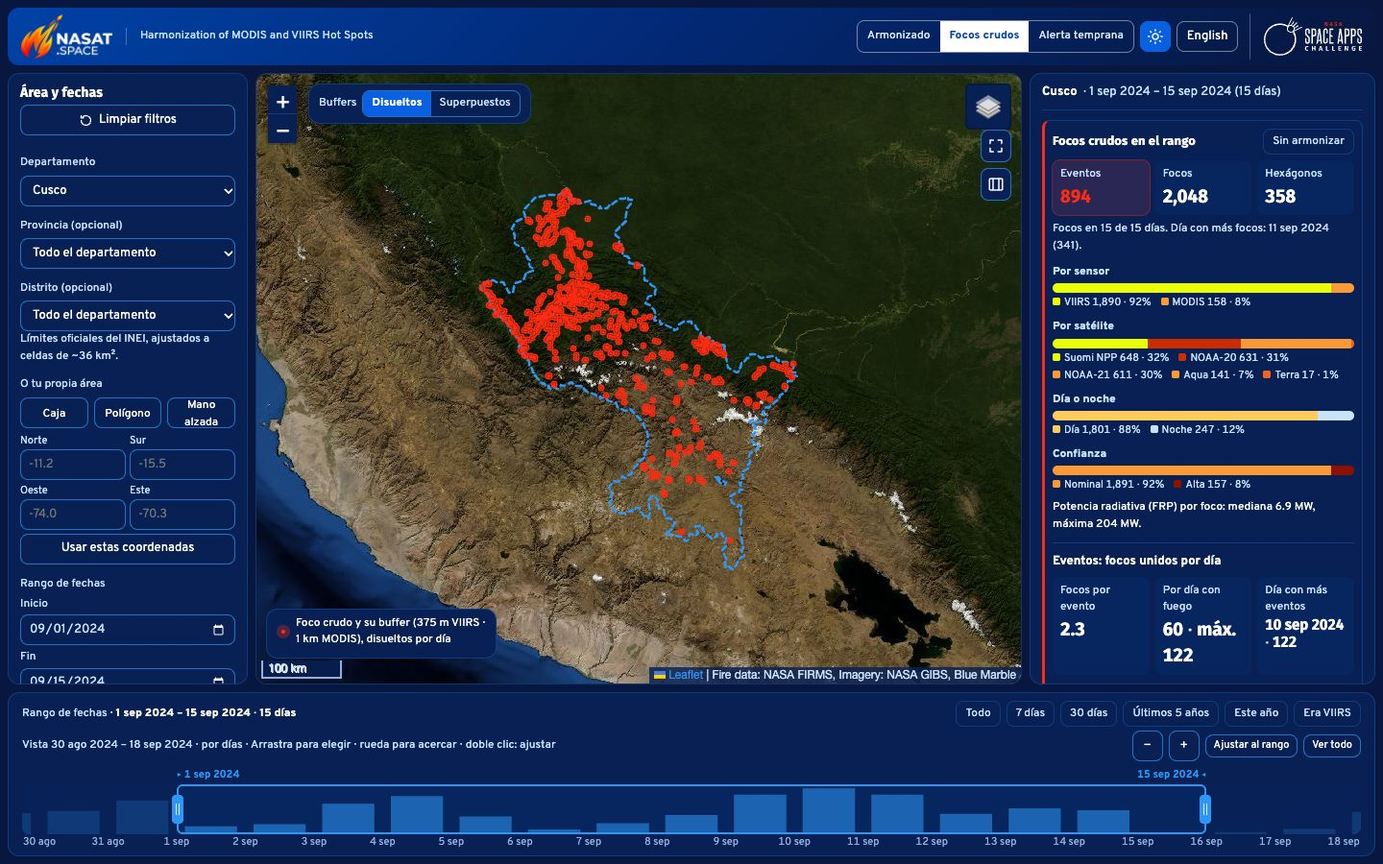
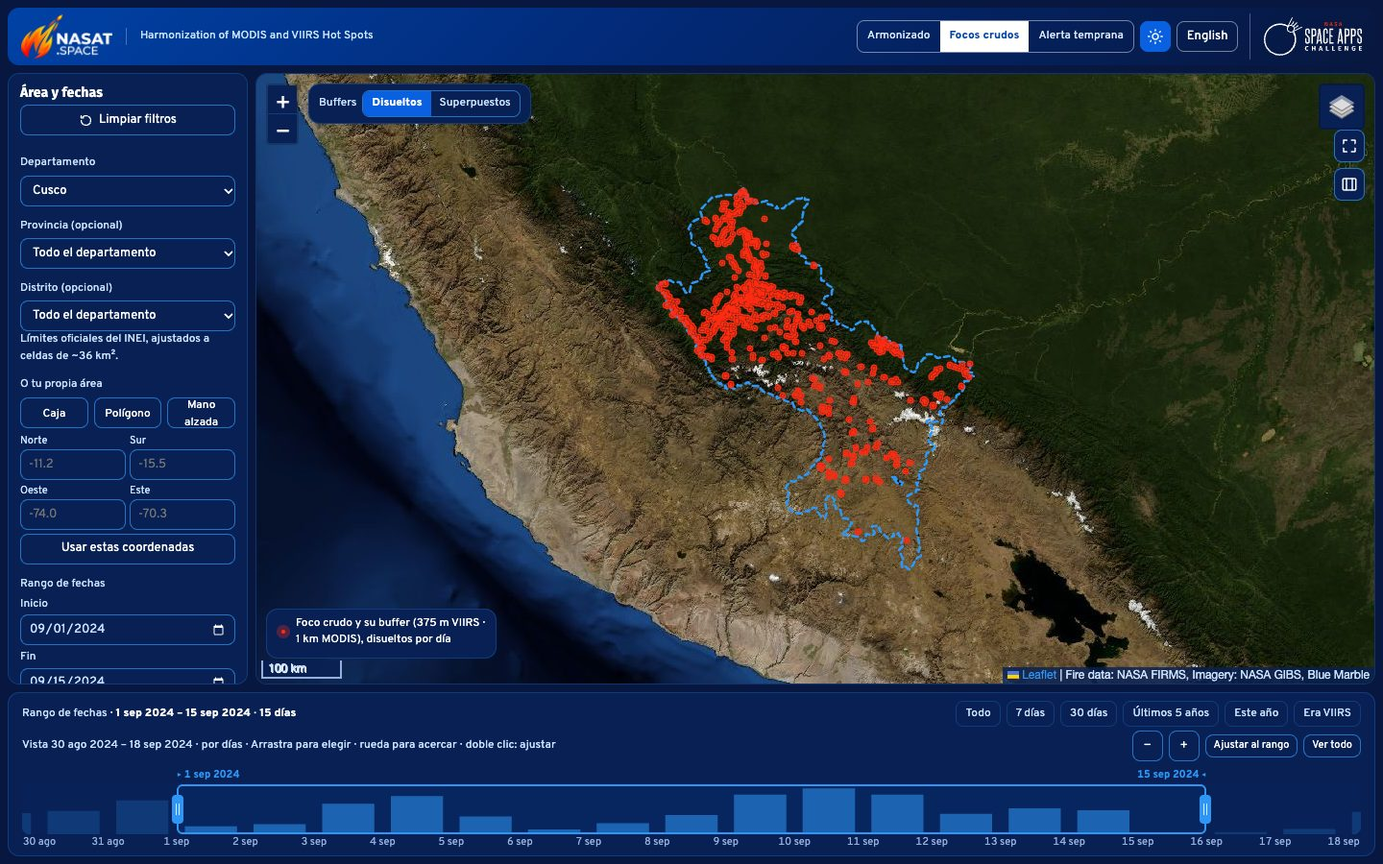
Focos crudos sin panel de estadísticas y AGENTS.md al día para próximas sesiones
- Focos crudos es dato bruto: se quita el panel derecho (tarjeta "Focos crudos en el rango" y
  gráficos) y el mapa ocupa ese ancho. La tarjeta sigue en Armonizado al superponer los focos.
- El mapa toma el ancho de la pestaña desde la URL antes de crearse y se recalcula (con el lienzo
  de los focos) al cambiar de pestaña.
- AGENTS.md reescrito: "Empieza aquí" con el estado actual, la web por pestañas, el modelo de
  predicción, despliegue automático, cifras verificadas y límites conocidos.
- README: captura de Focos crudos con el nuevo diseño.

diff --git a/web/src/main.ts b/web/src/main.ts
@@ -19,6 +19,12 @@ import { hexOpacity } from './area-of-interest/ui/mapView';
 import { readUrlState, writeUrlState } from './shared/urlState';
 
 const controller = new CalendarController();
+// La pestaña del enlace decide el ancho del mapa (Focos crudos no tiene panel): se aplica antes de crear el mapa,
+// para que Leaflet arranque con su tamaño real y no haya que corregirlo después.
+{
+  const linked = readUrlState();
+  document.querySelector('.app')!.classList.toggle('tab-raw', linked.metric === 'hotspots' && !linked.risk);
+}
 const svg = (id: string): SVGElement => document.getElementById(id) as unknown as SVGElement;
 
 const drawButtons = [...document.querySelectorAll<HTMLButtonElement>('[data-draw]')];
@@ -452,7 +458,14 @@ function render(selection: Selection, data: ViewData, changed: Changes): void {
   renderMonthCard(calendar, data.anomaly);
   renderLevelLegend(calendar);
   const counted = measure();
-  document.querySelector('.app')!.classList.toggle('tab-raw', !risk && selection.metric === 'hotspots');
+  // Focos crudos no tiene panel de estadísticas: al entrar o salir, el mapa cambia de ancho y hay que avisarle.
+  const app = document.querySelector('.app')!;
+  const rawTab = !risk && selection.metric === 'hotspots';
+  if (app.classList.contains('tab-raw') !== rawTab) {
+    app.classList.toggle('tab-raw', rawTab);
+    // En el acto (no en el siguiente cuadro): así el encuadre del área, más abajo, ya usa el ancho nuevo.
+    map.resize();
+  }
   brush.render(daily, range, counted);
   renderHeatmap(byId('heatmap'), calendar, counted, range, {
     onSelect: (year, month) => {

diff --git a/web/src/styles.css b/web/src/styles.css
@@ -342,6 +342,9 @@ dialog::backdrop { background: rgba(7, 23, 63, .6); }
 
 /* Focos crudos: la cifra principal son los eventos (focos disueltos por día). */
 .app.tab-raw .not-raw { display: none; }
+/* Focos crudos es dato bruto: sin panel de estadísticas ni gráficos; el mapa ocupa ese hueco. */
+.app.tab-raw .stats { display: none; }
+@media (min-width: 1024px) { .app.tab-raw { --c-stats: 0px; } .app.tab-raw .map-wrap { margin-right: -8px; } }
 .kpi.hl { background: color-mix(in srgb, var(--map-point) 14%, var(--s1)); outline: 1px solid color-mix(in srgb, var(--map-point) 45%, transparent); }
 .kpi.hl b { color: var(--map-point); }
 .ranking .hl { font-weight: 700; color: var(--map-point); background: color-mix(in srgb, var(--map-point) 9%, transparent); }

diff --git a/web/index.html b/web/index.html
@@ -90,7 +90,7 @@
       <div class="panel view-menu" id="viewMenu" hidden>
         <p class="small"><strong data-i18n="view.show"></strong></p>
         <label><input type="checkbox" data-view="filters"> <span data-i18n="view.filters"></span></label>
-        <label><input type="checkbox" data-view="stats"> <span data-i18n="view.stats"></span></label>
+        <label class="not-raw"><input type="checkbox" data-view="stats"> <span data-i18n="view.stats"></span></label>
         <label class="not-risk"><input type="checkbox" data-view="range"> <span data-i18n="view.range"></span></label>
       </div>
     </div>

diff --git a/web/src/area-of-interest/ui/mapView.ts b/web/src/area-of-interest/ui/mapView.ts
@@ -319,8 +319,10 @@ export class MapView {
   }
 
   /** El contenedor cambió de tamaño (por ejemplo al girar el teléfono). */
+  /** El contenedor cambió de tamaño (un panel se ocultó o apareció): Leaflet y el lienzo de los focos se recalculan. */
   resize(): void {
-    this.map.invalidateSize();
+    this.map.invalidateSize({ pan: false });
+    if (this.map.hasLayer(this.squares)) this.squares.redraw();
   }
 
   /**

diff --git a/AGENTS.md b/AGENTS.md
@@ -2,13 +2,19 @@
 
 Instrucciones para cualquier agente de IA que trabaje en este repositorio.
 
+## Empieza aquí (estado al 15 nov 2026, 22:50)
+
+- **App en producción**: <https://nasat.space> y <https://fire-calendar-538134722054.us-east1.run.app> (Cloud Run, proyecto `nasat-fire-calendar`, `us-east1`). Sirve lo que hay en `main`.
+- **Hecho y fusionado** (PR #8, #9 y #10): armonización validada, calendario, mes frente a la mediana, áreas oficiales del INEI (departamento › provincia › distrito, o dibujadas), rangos por días, focos crudos con buffers disueltos en eventos, descargas CSV/PNG, **Alerta temprana** (predicción de fuego 2027) y README con una captura por criterio del reto.
+- **Falta para el envío** (no es código): los ocho campos de la página del proyecto, la demo (video de 30 s o 7 diapositivas), la declaración de uso de IA y las referencias. Borradores en [`docs/08-envio.md`](docs/08-envio.md). Si piden más funciones antes del cierre, recuérdalo.
+- **Cierre**: domingo 15 de noviembre de 2026, 11:59 p. m. hora local. Si ya pasó, no toques nada que cambie lo enviado (app desplegada, README, enlaces) sin que el equipo lo pida de forma explícita.
+- Antes de proponer trabajo, revisa la sección "Pendiente" del final y `git log --oneline -5 origin/main`.
+
 ## Tu papel: supervisar que apuntemos a ganar
 
 Este repositorio es el proyecto del equipo para el reto **Harmonization of MODIS and VIIRS Hot Spots** del NASA Space Apps Challenge 2026. El objetivo es **ganar el hackathon**.
 
-Además de hacer lo que se te pida, supervisa al equipo: en cada tarea comprueba que el trabajo acerca al objetivo del reto y **avisa cuando no lo haga**. Di con claridad qué se está desviando y qué conviene hacer en su lugar. No esperes a que te lo pregunten.
-
-Cierre del envío: **domingo 15 de noviembre de 2026, 11:59 p. m. hora local**. Ten presente el tiempo que queda al proponer o aceptar trabajo.
+Además de hacer lo que se te pida, supervisa al equipo: en cada tarea comprueba que el trabajo acerca al objetivo del reto y **avisa cuando no lo haga**. Di con claridad qué se está desviando y qué conviene hacer en su lugar. No esperes a que te lo pregunten. Ten presente el tiempo que queda al proponer o aceptar trabajo.
 
 ## El objetivo del reto
 
@@ -40,7 +46,7 @@ Si las tres respuestas son no, dilo y propón algo que sí aporte.
 
 - Conteos de MODIS y VIIRS sumados sin armonizar.
 - Afirmaciones científicas sin respaldo, o cifras inventadas en la app, la demo o el envío.
-- Predicciones sin verificar: la única predicción de la app es la de "Alerta temprana" (Poisson estacional) y siempre va con su prueba fuera de muestra. Nada de pronósticos meteorológicos, ML ni puntajes de riesgo inventados.
+- Predicciones sin verificar: la única predicción de la app es la de **Alerta temprana** (Poisson estacional) y siempre va con su prueba fuera de muestra. Nada de pronósticos meteorológicos, ML ni puntajes de riesgo con pesos inventados.
 - Trabajo en funciones vistosas mientras falta algo de la lista anterior.
 - La página del proyecto o la demo sin empezar.
 - Riesgo de descalificación: sin dato de NASA como núcleo, sin declaración de uso de IA, referencias incompletas, material con derechos, enlaces que piden inicio de sesión.
@@ -55,19 +61,19 @@ Si las tres respuestas son no, dilo y propón algo que sí aporte.
 
 Detalle en [`docs/02-reglas-y-jurado.md`](docs/02-reglas-y-jurado.md).
 
-## Estructura y forma de trabajo
+## Estructura
 
 ```
-web/  ──►  functions/  ──►  data/  ◄──  src/etl/  ◄──  FIRMS
+web/  ──►  functions/  ──►  data/  ◄──  src/etl/  ◄──  FIRMS, INEI
 ```
 
-- `data/`: archivos de FIRMS y la serie armonizada (`data/processed/harmonized_fires.parquet`), que produce `src/etl/`. Sin HTTP ni interfaz.
-- `src/etl/`: ingesta, limpieza, armonización y validación. Es la ciencia del proyecto. `harmonize_firms.py` (serie armonizada y validación), `fire_events.py` (focos limpios y eventos de fuego por día) y `peru_limits.py` (límites oficiales del INEI y sus celdas H3).
-- `functions/`: servicios headless que leen la serie armonizada y responden JSON/CSV a cualquier cliente (`web/`, y a futuro `expoapp/`, `wspagent/`, `ai/`). Sin ciencia de armonización y sin interfaz.
-- `web/`: aplicación. Solo habla con `functions/`.
-- `docs/`: análisis y decisiones.
+- `data/`: archivos de FIRMS y lo que produce `src/etl/` en `data/processed/` (versionado en git y copiado a la imagen de Cloud Run). Sin HTTP ni interfaz.
+- `src/etl/`: la ciencia del proyecto. `harmonize_firms.py` (serie armonizada y validación), `fire_events.py` (focos limpios y eventos de fuego por día) y `peru_limits.py` (límites oficiales del INEI y sus celdas H3).
+- `functions/`: servicios headless (Python, DuckDB, FastAPI) que leen `data/processed/` y responden JSON/CSV a cualquier cliente. Sin ciencia de armonización y sin interfaz.
+- `web/`: aplicación (Vite, TypeScript, Leaflet). Solo habla con `functions/`.
+- `docs/`: análisis y decisiones. `docs/img/`: capturas del README.
 
-Se usa **DDD**: respeta el lenguaje ubicuo, los contextos delimitados y las capas de [`docs/06-arquitectura-ddd.md`](docs/06-arquitectura-ddd.md). La documentación se escribe en español.
+Se usa **DDD**: respeta el lenguaje ubicuo, los contextos delimitados y las capas de [`docs/06-arquitectura-ddd.md`](docs/06-arquitectura-ddd.md) (`shared/kernel` → `domain` → `application` → `infrastructure` / `interfaces`). Las reglas viven en `domain/services.py`; los presentadores solo traducen. La documentación y los comentarios se escriben en español.
 
 ## Modelo de datos: tres niveles y una grilla
 
@@ -75,87 +81,123 @@ Todo en `data/processed/` (consulta esquemas o metadatos, no el contenido comple
 
 | Archivo | Unidad | Qué es |
 |---|---|---|
-| `hotspots_clean.parquet` | 1 fila por foco (2 168 246) | Focos **limpios, no crudos**: sin confianza baja, sin duplicados Archive/NRT y sin fuentes estáticas (2 439 271 en los CSV → 2 168 246). Coordenadas redondeadas a 5 decimales, pero la precisión real es el píxel: 375 m VIIRS, 1 km MODIS. |
-| `harmonized_fires.parquet` | celda H3 res 6 × día × sensor (1 090 622) | La serie armonizada. Celda ≈ 36 km². `harmonized_fire_activity` es una **celda-día equivalente a 1 satélite VIIRS** (β o α·γ), no depende de cuántos focos hubo en la celda. Las filas con `is_primary_series = False` (MODIS en la era VIIRS) tienen actividad armonizada **0**: así MODIS y VIIRS nunca se suman. |
-| `fire_events.parquet` | evento por día | Buffer de 375 m (VIIRS) o 1 km (MODIS) por foco; los que se tocan el mismo día son un evento (componentes conexas, sin polígonos). Guarda centroide, número de focos y FRP. **No está armonizado.** |
-| `peru_limits.json` | departamento / provincia / distrito | Límites oficiales del INEI (25 departamentos con Callao, 196 provincias, 1 890 distritos), contornos simplificados y las celdas H3 res 6 cuyo centro cae dentro de cada uno. Código de provincia = 4 primeros dígitos del ubigeo. |
+| `hotspots_clean.parquet` | 1 fila por foco (2 168 246) | Focos **limpios, no crudos**: sin confianza baja, sin duplicados Archive/NRT y sin fuentes estáticas (2 439 271 en los CSV → 2 168 246). Coordenadas a 5 decimales, pero la precisión real es el píxel: 375 m VIIRS, 1 km MODIS. |
+| `harmonized_fires.parquet` | celda H3 res 6 × día × sensor (1 090 622) | La serie armonizada. Celda ≈ 36 km². `harmonized_fire_activity` es una **celda-día equivalente a 1 satélite VIIRS** (β o α·γ). Una celda-día MODIS vale ~3,4–5,6 (MODIS ve solo los fuegos más grandes) y una VIIRS ~0,5–1 (percentiles 10–90). Las filas con `is_primary_series = False` (MODIS en la era VIIRS) valen **0**: MODIS y VIIRS nunca se suman. |
+| `fire_events.parquet` | evento por día | Buffer de 375 m (VIIRS) o 1 km (MODIS) por foco; los que se tocan el mismo día son un evento (componentes conexas). Centroide, focos, FRP. `sensor_set = 'all'` (todos los sensores) o `'modis'` (solo MODIS, la base de la predicción). **No está armonizado.** |
+| `peru_limits.json` | departamento / provincia / distrito | Límites oficiales del INEI (25 departamentos con Callao, 196 provincias, 1 890 distritos): contornos simplificados y celdas H3 res 6 cuyo centro cae dentro. Código de provincia = 4 primeros dígitos del ubigeo. Los nombres de provincias y distritos vienen del INEI sin tildes (`La Convencion`). |
 
 Reglas que no se rompen:
 
-- La comparación entre años solo vale con la **actividad armonizada**. Focos, eventos y hexágonos crecen con cada satélite nuevo (2012, 2018, 2023); dilo siempre que se muestren.
-- Toda área (departamento, distrito, caja, polígono dibujado) se **ajusta a la grilla H3 res 6**: cuenta cada celda cuyo centro cae dentro. Al servir los datos, el departamento de cada celda sale de los límites oficiales del INEI; la columna `department` del parquet es aproximada y no se usa para filtrar.
+- La comparación entre años solo vale con la **actividad armonizada**. Focos, eventos y hexágonos crecen con cada satélite nuevo (2012 S-NPP, 2018 NOAA-20, 2023 NOAA-21); dilo siempre que se muestren.
+- Toda área se **ajusta a la grilla H3 res 6**: cuenta cada celda cuyo centro cae dentro. El departamento de cada celda sale de los límites del INEI al cargar la API; la columna `department` del parquet es aproximada y no se usa para filtrar.
 - Los eventos se asignan a un área por su centroide: en los bordes pueden sumar unos pocos focos de más o de menos que los puntos.
 
 ## API de `functions/` (prefijo `/api/v1`)
 
-- Área (una sola por petición): `department`, `province` (4 dígitos), `district` (ubigeo), `bbox=oeste,sur,este,norte` o `polygon=lon,lat;...` (≤ 500 vértices). Sin área = todo el Perú.
-- Fechas: `from`/`to` aceptan días `AAAA-MM-DD` o meses `AAAA-MM`. El mapa, el ranking, los focos y los CSV trabajan por **días**; `/calendar`, `/anomaly` y `/calendar.csv` son mensuales.
-- Rutas: `meta`, `calendar`, `anomaly` (sin `month` = mes en curso), `daily` (serie diaria densa por área), `cells` (hexágonos del rango), `points` (focos crudos, los más recientes primero, tope 30 000 en la web y 50 000 en la API, con `summary` de todos los focos y `events` del recuento diario), `ranking` (hexágonos, focos, eventos por departamento), `forecast?level=department|province|district` (predicción por mes de cada límite, con `check` fuera de muestra), `forecast/area` (la del área elegida), `shapes?level=` (contornos INEI de un nivel), `limits`, `boundary`, `hotspots.csv`, `export.csv`, `calendar.csv`.
-- El contrato está en `docs/06-arquitectura-ddd.md` y en `/api/docs`. Las cifras de las pruebas (`functions/tests/test_api.py`) salen de los datos reales: si cambias el ETL, revisa esas cifras.
+- Área (una sola por petición): `department` (nombre), `province` (4 dígitos), `district` (ubigeo), `bbox=oeste,sur,este,norte` o `polygon=lon,lat;...` (≤ 500 vértices). Sin área = todo el Perú.
+- Fechas: `from`/`to` aceptan días `AAAA-MM-DD` o meses `AAAA-MM`. Mapa, ranking, focos y CSV trabajan por **días**; `/calendar`, `/anomaly` y `/calendar.csv` son mensuales.
+- Rutas:
+  - `meta`, `limits` (departamentos, provincias y distritos), `boundary` (contorno de un área oficial), `shapes?level=` (contornos de todo un nivel).
+  - `calendar`, `anomaly` (sin `month` = mes en curso), `daily` (serie diaria densa), `cells` (hexágonos del rango), `ranking` (hexágonos, focos y eventos por departamento).
+  - `points`: focos crudos, los más recientes primero (tope 30 000 en la web, 50 000 en la API), con `summary` de todos y `events` del recuento diario.
+  - `forecast?level=department|province|district`: predicción por mes de cada límite (`expected`, `pAny`, `low`, `high`) y `check` fuera de muestra. `forecast/area`: la del área elegida.
+  - `hotspots.csv`, `export.csv`, `calendar.csv`.
+- El contrato está en `docs/06-arquitectura-ddd.md` y en `/api/docs`. Las cifras de `functions/tests/test_api.py` salen de los datos reales: si cambias el ETL, revisa esas cifras.
 
-## Estado de la web (`web/`)
+## La web por pestañas (`web/`)
 
-- Encabezado fijo (nunca se oculta) con el subtítulo "Harmonization of MODIS and VIIRS Hot Spots", pestañas **Armonizado** / **Focos crudos** / **Alerta temprana**, interruptor de tema claro/oscuro e idioma ES/EN.
-- **Alerta temprana** (SAT): "Predicción de fuego" por mes. Eventos esperados λ = media de eventos **MODIS** (Terra + Aqua, misma constelación desde 2003) de ese mes en 2003–año pasado; probabilidad de al menos uno y rango del 80 % con Poisson, o Poisson-Gamma (binomial negativa) cuando varianza > media. El mapa baja un nivel desde el área del filtro global (Perú → departamentos → provincias → distritos; un distrito se ve entre los de su provincia), color por **impacto** = eventos esperados redondeados (bajo 0–20, medio 21–50, alto 51–100, crítico > 100; sin color si la probabilidad es casi nula). La tarjeta muestra probabilidad e impacto juntos (matriz de riesgo); la lista se ordena por impacto. Se presenta como **predicción del año siguiente al último dato (2027)**: título, mes ("Diciembre 2027"), mapa, lista y resumen anual (total, mes más activo y más tranquilo) llevan el año; si el mes aún no llegó este año, se avisa que la misma predicción vale para él (el modelo es estacional, sin tendencia). Mes por defecto: el siguiente al último dato. Oculta línea de tiempo, fechas y descargas. Tarjeta: nivel de probabilidad de al menos un evento (alta ≥ 67 %, media ≥ 33 %, baja ≥ 5 %, casi nula; franjas fijas, en la etiqueta y las barras), eventos esperados en enteros (si redondean a 0, la cifra grande pasa a ser la probabilidad de al menos uno), una frase en lenguaje llano y el mismo mes del último año completo frente al rango.
-- Prueba fuera de muestra (ajuste 2003–2020, prueba 2021–2025): Brier 48 / 43 / 33 % mejor que una sola tasa (departamento / provincia / distrito); el rango del 80 % acierta 83 / 90 / 96 %. Poisson puro cubriría solo 58 % en departamentos (dispersión 4,5): por eso Poisson-Gamma.
-- "Limpiar filtros" (arriba del panel izquierdo) vuelve a todo el Perú y todo el rango sin cambiar de pestaña. Las áreas se nombran de arriba abajo: departamento › provincia › distrito.
-- **Armonizado**: hexágonos con la rampa de fuego del calendario, translúcidos; se pueden superponer los focos crudos.
-- **Focos crudos**: punto + buffer (1 km MODIS, 375 m VIIRS), **disueltos por día** (por defecto) o superpuestos; clic en un punto muestra el foco y su evento del día. Tarjeta de panel con hexágonos, focos, eventos, repartos por sensor/satélite/día-noche/confianza y el recuento diario de eventos.
-- Área: departamento → distrito (INEI), o dibujar caja, polígono o mano alzada. Contorno oficial en el mapa y capas WMS del INEI opcionales.
-- Línea de tiempo con inicio y fin, zoom de años a días (rueda, +/−, ajustar). Clic en un mes del calendario = ese mes como rango.
+Común a las tres:
+
+- Encabezado fijo (nunca se oculta) con el subtítulo "Harmonization of MODIS and VIIRS Hot Spots", las pestañas, tema claro/oscuro e idioma ES/EN.
+- Panel izquierdo: **Limpiar filtros** (vuelve a todo el Perú y todo el rango, sin cambiar de pestaña); área por departamento › provincia › distrito (INEI), o dibujar caja, polígono o mano alzada, o coordenadas. Las áreas se nombran de arriba abajo (`Cusco › La Convencion › Echarate`).
+- Panel derecho (Armonizado y Alerta temprana): área y rango una sola vez arriba; cada cifra vive en una sola tarjeta. El mes en curso frente a su mediana aparece en las dos.
 - Vista: se pueden ocultar Área y fechas, Estadísticas y Línea de tiempo, o pasar a "solo mapa" (Esc sale).
-- Panel: área y rango se muestran una sola vez arriba; cada cifra vive en una sola tarjeta (no repetir textos ni números). El mes en curso frente a la mediana se mantiene en las dos pestañas.
-- El ranking de departamentos muestra hexágonos, focos y eventos (ordenado y destacado por eventos), sin actividad armonizada (decisión del equipo): compara departamentos dentro de un rango, no años.
-- En **Focos crudos** todos los gráficos (por año, año frente a uno normal, calendario, línea de tiempo) cuentan **eventos** (focos disueltos por día), no focos sueltos (`Measure = 'events'` en `types.ts`). El "año normal" de eventos se calcula solo con los años de la misma constelación que el año elegido (2003–2011, 2012–2017, 2018–2022, 2023+). El gráfico de frecuencia mensual (armonizado) se oculta en esa pestaña.
-- Detalles de implementación que conviene saber:
-  - `shared/palette.ts` lee los colores de `styles.css` **una vez al cargar**: cambiar de tema recarga la página (el estado vive en la URL). Ningún otro archivo declara colores; `npm run check:palette` valida la rampa.
-  - Todo texto visible va en `shared/i18n.ts`, en español y en inglés (el tipo `Key` obliga a tener las dos).
-  - `calendar/domain/fireEvents.ts` agrupa eventos en el navegador con la **misma regla** que `fire_events.py`; si cambias una, cambia la otra.
-  - URL: `department|province|district|bbox|polygon`, `from`, `to`, `metric=hotspots`, `points=1`, `buffers=overlap`, `view=risk`, `month=1..12`. En el navegador (no en el enlace): `nasat-theme`, `nasat-hidden-sections`.
+
+**Armonizado** (la vista científica):
+
+- Hexágonos con la rampa de fuego del calendario, translúcidos; las celdas con actividad armonizada 0 no se pintan. Se pueden superponer los focos crudos.
+- Tarjetas: rango elegido, frecuencia por mes, por año, año frente a uno normal, calendario año × mes, antes y después de armonizar, ranking de departamentos.
+- Línea de tiempo con inicio y fin, zoom de años a días. Clic en un mes del calendario = ese mes como rango.
+
+**Focos crudos** (lo que vio el satélite, sin armonizar):
+
+- Es dato bruto: **sin panel de estadísticas ni gráficos** (decisión del equipo). Solo el mapa a todo lo ancho, el panel de área y fechas y la línea de tiempo.
+- Punto + buffer (1 km MODIS, 375 m VIIRS), **disueltos por día** (por defecto) o superpuestos; clic en un punto muestra el foco y su evento del día.
+- La línea de tiempo cuenta **eventos** (focos disueltos por día), no focos sueltos (`Measure = 'events'` en `calendar/domain/types.ts`). El código de gráficos por eventos (año normal por constelación, `CONSTELLATION_ERAS` en `charts.ts`) queda para el calendario ampliado y por si el panel vuelve.
+- La tarjeta "Focos crudos en el rango" (`#rawCard`) solo aparece en Armonizado al superponer los focos.
+- El ancho del mapa depende de la pestaña: `main.ts` aplica `.tab-raw` desde la URL **antes** de crear el mapa y llama a `map.resize()` al cambiar de pestaña (si no, Leaflet y el lienzo de los focos quedan con el tamaño viejo).
+
+**Alerta temprana** (predicción de fuego 2027):
+
+- Modelo (`functions/.../domain/services.py`: `month_forecast`, `forecast_check`; caso de uso `GetFireForecast`): para cada mes, λ = media de eventos **MODIS** de ese mes en 2003–año pasado. Probabilidad de al menos uno y rango del 80 % con Poisson, o Poisson-Gamma (binomial negativa, misma media) si varianza > media.
+- Se presenta como **predicción del año siguiente al último dato (2027)**: título, mes ("Agosto 2027"), mapa, lista y resumen anual llevan el año. Es estacional, sin tendencia: si el mes aún no llegó este año, la tarjeta avisa que la misma predicción vale para él. Mes por defecto: el siguiente al último dato.
+- Dos ejes, como una matriz de riesgo (umbrales en `web/src/calendar/ui/riskPanel.ts`):
+  - **Probabilidad** de al menos un evento: alta ≥ 67 %, media ≥ 33 %, baja ≥ 5 %, casi nula < 5 %. Etiqueta de la tarjeta y color de las barras.
+  - **Impacto** = eventos esperados redondeados: bajo 0–20, medio 21–50, alto 51–100, crítico > 100. Color del mapa y de la lista; sin color si la probabilidad es casi nula.
+- El mapa baja un nivel desde el área del filtro global: Perú → departamentos, departamento → provincias, provincia → distritos; un distrito se ve entre los de su provincia. Clic en un límite lo elige como área.
+- Tarjeta: eventos esperados en enteros (nunca "< 1"; si redondean a 0, la cifra grande pasa a ser la probabilidad), una frase en lenguaje llano, el mismo mes del último año completo frente al rango, KPIs (probabilidad o eventos, rango 80 %, años con fuego), 12 barras del año, top 5 por impacto y "¿Es confiable?" con la prueba fuera de muestra.
+- Oculta la línea de tiempo, las fechas, las descargas y el calendario.
+
+Detalles de implementación que conviene saber:
+
+- `shared/palette.ts` lee los colores de `styles.css` **una vez al cargar**: cambiar de tema recarga la página (el estado vive en la URL). Ningún otro archivo declara colores; `npm run check:palette` valida la rampa.
+- Todo texto visible va en `shared/i18n.ts`, en español y en inglés (el tipo `Key` obliga a tener las dos). Textos breves y amables; en español, los meses van en minúscula dentro de las frases.
+- `calendar/domain/fireEvents.ts` agrupa eventos en el navegador con la **misma regla** que `fire_events.py`; si cambias una, cambia la otra.
+- Elementos que no aplican a una pestaña: CSS `.app.tab-risk .not-risk`, `.app.tab-raw .not-raw` y `data-risk` (lo único visible del panel en Alerta temprana).
+- URL: `department|province|district|bbox|polygon`, `from`, `to`, `metric=hotspots`, `points=1`, `buffers=overlap`, `view=risk`, `month=1..12`. En el navegador (no en el enlace): `nasat-theme`, `nasat-hidden-sections`, `fire-calendar-lang`, y `nasat-intro-seen` (sesión).
 
 ## Decisiones tomadas (no revertir sin preguntar)
 
-- Buffer de cada foco = tamaño nominal de su píxel (1 km MODIS, 375 m VIIRS), igual en el mapa, en `fireEvents.ts` y en `fire_events.py`. FIRMS describe el foco como el centro del píxel, así que el alcance real es la mitad; si se cambia, hay que regenerar `fire_events.parquet` para que mapa y estadísticas sigan coincidiendo.
-- Focos crudos: buffers **disueltos por día** por defecto (una figura por evento, los días se apilan con transparencia); "Superpuestos" como alternativa. La unión se compone en un lienzo auxiliar, no con una librería de geometría (miles de círculos serían lentos).
-- Hexágonos armonizados: rampa de fuego del calendario con transparencia; las celdas con actividad armonizada 0 (solo sensor secundario) no se pintan.
-- Los departamentos y distritos se filtran por celdas H3 de los límites INEI, no por el ETL: así no se recalcula la armonización.
+- Buffer de cada foco = tamaño nominal de su píxel (1 km MODIS, 375 m VIIRS), igual en el mapa, en `fireEvents.ts` y en `fire_events.py`. Si se cambia, hay que regenerar `fire_events.parquet` para que mapa y estadísticas sigan coincidiendo.
+- Focos crudos: buffers **disueltos por día** por defecto; la unión se compone en un lienzo auxiliar, no con una librería de geometría (miles de círculos serían lentos).
+- Áreas oficiales por celdas H3 de los límites del INEI, no por el ETL: así no se recalcula la armonización.
 - El encabezado y sus pestañas nunca se ocultan; "solo mapa" oculta el resto.
-- La predicción (decisión del equipo, 15 nov 2026) es estacional y verificada: Poisson sobre eventos MODIS. No usa eventos con VIIRS (crecen con cada satélite) ni la actividad armonizada con umbral. MODIS cuenta menos eventos que la pestaña de focos crudos y en 2025 bajó (deriva de órbita de Terra/Aqua y año de poco fuego): dilo si sale en la demo. Nada de puntajes de riesgo con pesos inventados ni proyecciones de tendencia sin prueba.
+- El ranking de departamentos no muestra actividad armonizada (compara departamentos dentro de un rango, no años).
+- **Predicción** (decisión del equipo, 15 nov 2026; antes "la web describe, no predice"): estacional y verificada, Poisson sobre eventos MODIS. No usa eventos con VIIRS (crecen con cada satélite) ni actividad armonizada con umbral, ni clima, ni tendencia. Se descartó el plan del documento del equipo (Theil-Sen a 12 meses y puntaje de riesgo 0–100) por no estar verificado.
 
 ## Cómo pide trabajo el equipo
 
-- Escribe en inglés o español y suele pedir actuar como "senior designer / software engineer / experience". Responde en su idioma; los textos de la app van en español e inglés.
-- Espera cambios completos de extremo a extremo (ETL → API → web), verificados en el navegador, con pruebas al día. Señala con claridad cuando algo compite con lo que falta para el envío.
+- Escribe en inglés o español y suele pedir actuar como "senior designer / software engineer / experience / ideal senior role". Responde en su idioma; los textos de la app van en español e inglés.
+- Itera rápido en pedidos cortos sobre lo último que vio en pantalla. Espera cambios completos de extremo a extremo (ETL → API → web), verificados en el navegador, con pruebas al día.
 - Pide quitar texto repetido: antes de añadir una etiqueta o una nota, comprueba que esa información no esté ya en otra parte de la pantalla.
-- La marca oficial de Space Apps manda sobre los documentos internos del equipo (logo NASAT, paleta y degradado oficiales).
+- Cuando un pedido choca con una regla de este archivo (p. ej. predecir), dilo, propone la versión defendible y regístrala en "Decisiones tomadas".
+- La marca oficial de Space Apps manda sobre los documentos internos del equipo (logo NASAT, paleta y degradado oficiales). Los documentos del equipo en Google Docs pueden traer cifras o código que no coinciden con el repositorio: contrástalos antes de usarlos.
 
 ## Límites conocidos (decláralos si salen en la demo)
 
 - Más de 30 000 focos en el rango: el mapa dibuja los más recientes y lo avisa; las estadísticas cuentan todos.
 - Blue Marble (GIBS) no tiene detalle por encima del zoom 8; para ver focos de cerca, el mapa de calles.
+- En el panel de navegador de la app de escritorio de Claude, al abrir un enlace con área, el mapa a veces no se acerca al área (también en producción); en Chrome normal y headless sí. No es de la app; para verificar el encuadre usa puppeteer o recarga.
 - El agrupado de eventos del navegador puede diferir en unos pocos eventos del servidor en los bordes del área (el servidor agrupa todo el Perú).
 - El mes en curso es parcial: se compara con los mismos días de años anteriores.
+- Los eventos MODIS bajaron en 2025–2026 (deriva de órbita de Terra y Aqua y un año de poco fuego): la línea "mismo mes del año pasado" de Alerta temprana puede decir "menos de lo esperado" (p. ej. Perú, septiembre de 2026: 1 236 frente a 2 191–4 297).
+- La predicción cuenta menos eventos que Focos crudos porque solo usa MODIS.
+- A nivel de departamento la probabilidad de al menos un evento suele ser 100 %: por eso el mapa se pinta por impacto.
 
 ## Cómo trabajar
 
-- Pruebas: `cd functions && uv run python -m pytest -q`. Web: `cd web && npx tsc --noEmit && npm run build && npm run check:palette`.
-- Servidores: `.claude/launch.json` (`fire-calendar` en :8000 y `web-dev` en :5173, que reenvía `/api` a :8000). Si :8000 está ocupado por otra copia del repositorio, la API arranca en otro puerto y Vite seguiría hablando con la copia vieja: arranca Vite con `FUNCTIONS_URL=http://127.0.0.1:<puerto>`.
-- La API no recarga sola: tras cambiar Python, reinicia el servidor.
-- Para regenerar los límites: `uv run --project functions python src/etl/peru_limits.py`. El WFS del INEI rechaza el agente por defecto de curl; el script se identifica como `NASAT-ETL/1.0` y usa los certificados de `certifi`.
-- El Dockerfile copia `data/processed/`: cualquier archivo nuevo ahí llega al despliegue en Cloud Run.
+- Pruebas: `cd functions && uv run python -m pytest -q` (27). Web: `cd web && npx tsc --noEmit && npm run build && npm run check:palette`.
+- Servidores: `.claude/launch.json` (`fire-calendar` en :8000 y `web-dev` en :5173, que reenvía `/api` a :8000). Si :8000 está ocupado por otra copia del repositorio, añade una configuración temporal en otro puerto (p. ej. :8001, que también sirve `web/dist` compilado), o arranca Vite con `FUNCTIONS_URL=http://127.0.0.1:<puerto>`; deshaz el cambio de `launch.json` antes de confirmar.
+- La API no recarga sola: tras cambiar Python, reinicia el servidor. Tras cambiar `web/`, `npm run build` si la ves servida por la API.
+- Regenerar los límites: `uv run --project functions python src/etl/peru_limits.py` (~35 s). El WFS del INEI rechaza el agente por defecto de curl; el script se identifica como `NASAT-ETL/1.0` y usa los certificados de `certifi`.
+- Git: una rama por tarea desde `origin/main` y PR a `main`. Antes de empujar más commits a una rama con PR, comprueba que el PR siga abierto (`gh pr view <n>`): un commit empujado después de fusionar se queda fuera de `main` (pasó con el README de #9; se resolvió con #10).
+- **Despliegue automático**: `.github/workflows/deploy.yml` corre pruebas y tipos y despliega en Cloud Run al fusionar en `main` cambios en `functions/`, `web/`, `data/processed/`, `Dockerfile` o `.gcloudignore` (~2,5 min; `gh run list --workflow deploy.yml`). Cambios solo de docs no despliegan. Manual, si hiciera falta: el comando `gcloud run deploy` del README (siempre con `--project nasat-fire-calendar`; el proyecto activo de gcloud en esta máquina es otro).
+- Capturas del README (`docs/img/01…14`): se tomaron de producción con `puppeteer-core` sobre el Chrome instalado, a 1440×900, en español y tema oscuro (05 en claro), saltando la intro con `sessionStorage['nasat-intro-seen']`. El script no está en el repositorio: si cambias la interfaz de forma visible, rehazlas con las mismas vistas (lista en la tabla de criterios del README).
 
 ## Cifras verificadas (úsalas tal cual en la demo y el envío)
 
-- Validación fuera de muestra 2021–2024, mensual: MAPE **89,85 % antes → 15,12 % después**, sesgo +4,02 %, r = 0,988 (`calendar_summary.json`).
+- Armonización, validación fuera de muestra 2021–2024, mensual: MAPE **89,85 % antes → 15,12 % después**, sesgo +4,02 %, r = 0,988 (`calendar_summary.json`).
 - Limpieza: 2 439 271 → 2 168 246 focos; los 150 000 de confianza baja están recontados en los CSV (la cifra redonda es real).
-- Con límites INEI: Cusco 2024 = 9 508 focos; 25 departamentos.
+- Con límites INEI: Cusco 2024 = 9 508 focos; 25 departamentos, 196 provincias, 1 890 distritos.
+- Predicción, prueba fuera de muestra (ajuste 2003–2020, prueba 2021–2025), departamento / provincia / distrito: error de Brier **48 / 43 / 33 %** menor que una sola tasa para todo el Perú; rango del 80 % cumplido **83 / 90 / 96 %**; con Poisson puro, 58 / 83 / 96 % (dispersión 4,5 / 2,4 / 1,8).
+- Ejemplos de la app: Cusco, agosto de 2027 → 141 eventos esperados (47–257); todo 2027 → ~428; Perú, septiembre → 3 198.
 
 ## Pendiente para el envío (revisar al empezar cada sesión)
 
-- Desplegado en Cloud Run el 15 nov 2026 (revisión `fire-calendar-00006-786`, rama `claude/sat-alerta-temprana`, PR #9 sin fusionar). Tras fusionar, volver a desplegar desde `main`. Capturas del README: `docs/img/`, tomadas de producción con un script de puppeteer (una por criterio).
-- Los ocho campos de la página del proyecto y la demo (`docs/08-envio.md`), con declaración de uso de IA.
-- Referencias: además de NASA FIRMS, INEI (Geoservidor WFS/WMS `ig_departamento`, `ig_provincia`, `ig_distrito`), NASA GIBS, OpenStreetMap, H3, DuckDB, FastAPI y Leaflet.
-- El documento técnico del equipo (Google Docs) tiene afirmaciones que no coinciden con el código: diccionario de datos con columnas inexistentes, §7 presentado como código real, "polígonos con `unary_union`" y cifras no medidas (< 300 ms, 60 fps). El INEI ya se usa para elegir el área, pero no en la columna `department` del ETL.
+- Los ocho campos de la página del proyecto y la demo (`docs/08-envio.md`), con la declaración de uso de IA (incluye el trabajo de los agentes: armonización, API, web, predicción, capturas).
+- Referencias: NASA FIRMS (MODIS C6.1, VIIRS C2), INEI (Geoservidor WFS/WMS `ig_departamento`, `ig_provincia`, `ig_distrito`), NASA GIBS, OpenStreetMap, H3, DuckDB, FastAPI, Leaflet, puppeteer-core (solo para las capturas).
+- Las capturas de `docs/img/` sirven para la demo.
+- El documento técnico del equipo (Google Docs) tiene afirmaciones que no coinciden con el código: diccionario de datos con columnas inexistentes, §7 presentado como código real, "polígonos con `unary_union`", cifras no medidas (< 300 ms, 60 fps) y "MAPE anual 5,59 %". El INEI ya se usa para elegir el área, pero no en la columna `department` del ETL.
 - Decidir si el título de la pestaña del navegador ("NASAT · Calendario de quema") pasa a usar el nombre del reto.
 
 ## Archivos grandes y contexto de IA
@@ -164,10 +206,10 @@ Estas reglas aplican a cualquier agente, herramienta y sesión de IA que trabaje
 
 - No cargues ni leas completos archivos de **10 MiB o más**, ni archivos de datos binarios como Parquet, en el contexto del chat por defecto. Esto incluye archivos de `data/`, aunque sean entradas o salidas importantes del proyecto.
 - Antes de abrir archivos de datos, consulta solo sus nombres, tamaños, esquema o metadatos. Para entender su uso, prioriza el código ETL, las funciones, la documentación y los reportes resumidos.
-- Lee o procesa el contenido de un archivo grande solo si la solicitud actual lo requiere explícitamente. En ese caso, limita la inspección a las columnas, filas, fechas o regiones necesarias; prefiere consultas y procesamiento en streaming a volcar el archivo completo al contexto.
+- Lee o procesa el contenido de un archivo grande solo si la solicitud actual lo requiere explícitamente. En ese caso, limita la inspección a las columnas, filas, fechas o regiones necesarias; prefiere consultas y procesamiento en streaming (DuckDB sobre el parquet) a volcar el archivo completo al contexto.
 - Si la tarea exige el contenido completo y no se puede resolver con una inspección acotada, explica qué archivo necesitas y por qué antes de cargarlo al chat.
 - No leas datos grandes solo porque una prueba, servicio o script dependa de ellos: ejecuta la prueba o procesa los datos sin incorporar su contenido al contexto.
 
 ## Honestidad
 
-Reporta los resultados como son. Si la armonización no mejora el error, o algo no está verificado, dilo: ocultarlo cuesta más puntos que declararlo.
+Reporta los resultados como son. Si la armonización o la predicción no mejoran el error, o algo no está verificado, dilo: ocultarlo cuesta más puntos que declararlo.

diff --git a/README.md b/README.md
@@ -19,7 +19,7 @@ Tomadas de la app desplegada (<https://fire-calendar-538134722054.us-east1.run.a
 
 ![Cusco, septiembre de 2024](docs/img/02-cusco.jpg)
 
-**Focos crudos.** Cada foco con su buffer (375 m VIIRS, 1 km MODIS), disueltos por día en eventos de fuego; estadísticas por sensor, satélite, día/noche y confianza.
+**Focos crudos.** El dato bruto, sin panel de estadísticas: cada foco con su buffer (375 m VIIRS, 1 km MODIS), disueltos por día en eventos de fuego, y la línea de tiempo por días. Clic en un foco muestra su ficha y su evento.
 
 ![Focos crudos y eventos](docs/img/08-focos-rango.jpg)
 
